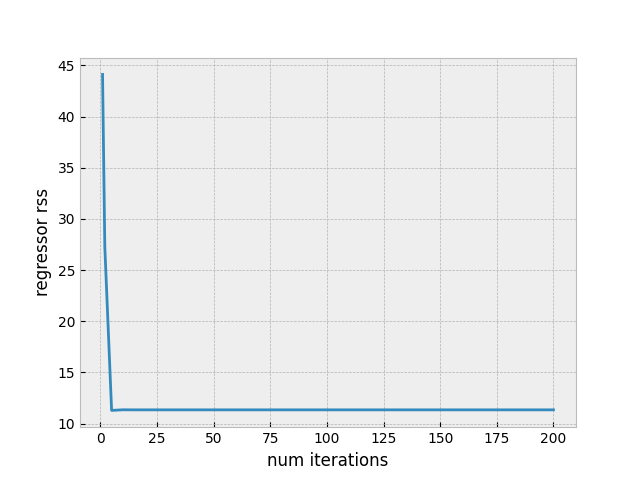
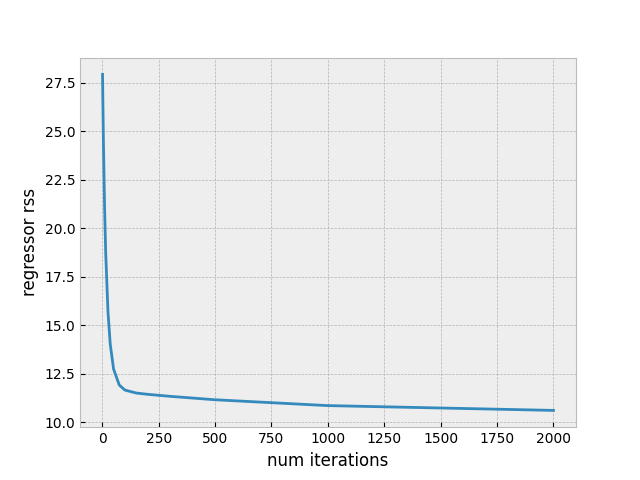
debugged backpropagation

diff --git a/neural_net_generalized.py b/neural_net_generalized.py
@@ -8,7 +8,8 @@ class Node():
         self.input_val = None
         self.output_val = None
         self.bias = False
-        self.dRSS = None
+        self.dRSS = 0
+        self.temp_dRSS = 0
         self.f = act_func
     
     def set_vals(self, input_val):
@@ -69,24 +70,21 @@ class NeuralNet():
         self.set_node_vals(x)
         return self.nodes[self.num_nodes-1].output_val
     
-    def set_node_dRSS(self, f_prime): # can't generalize f_prime
+    def set_node_dRSS(self, point, f_prime): # can't generalize f_prime
+        self.set_node_vals(point[0])
         for node in self.nodes[::-1]:
-            drss = 0
-            for point in self.points:
-                self.set_node_vals(point[0])
-                if node.num == self.num_nodes:
-                    drss += 2 * (node.output_val - point[1])
-                    continue
-                for out_node in node.info_to:
-                    edge_weight = self.get_weight(node, out_node)
-                    drss += out_node.dRSS * f_prime(out_node.input_val) * edge_weight
-            node.dRSS = drss
+            if node.num == self.num_nodes:
+                node.dRSS = 2 * (node.output_val - point[1])
+                continue
+            for out_node in node.info_to:
+                edge_weight = self.get_weight(node, out_node)
+                node.dRSS = out_node.dRSS * f_prime(out_node.input_val) * edge_weight
 
     def weight_gradients(self, f_prime):
         gradients = {key:0 for key in self.w}
         for key in self.w:
             for point in self.points:
-                self.set_node_vals(point[0])
+                self.set_node_dRSS(point, f_prime)
                 nodes = [self.get_node(char) for char in key]
                 gradients[key] += nodes[1].dRSS * f_prime(nodes[1].input_val) * nodes[0].output_val
         return gradients
@@ -94,14 +92,12 @@ class NeuralNet():
     def rss(self):
         rss = 0
         for point in self.points:
-            self.set_node_vals(point[0])
-            output = self.nodes[self.num_nodes-1].output_val
+            output = self.predict(point[0])
             rss += (output - point[1])**2
         return rss
     
     def gradient_desc(self, num_iterations, l_rate, f_prime):
         for _ in range(num_iterations):
-            self.set_node_dRSS(f_prime)
             gradients = self.weight_gradients(f_prime)
             self.w = {key:self.w[key] - l_rate*gradients[key] for key in self.w}
 '''
@@ -118,20 +114,22 @@ weights = {'13':1,'14':1,'23':1,'24':1,'36':1,'46':1,'56':1}
 act_func = lambda x: max(0,x)
 init_input = [(0,5), (2,3), (5,10)]
 bias_nums = [2, 5]
-f_prime = lambda x: x
+f_prime = lambda x: 0 if x<=0 else 1
 net = NeuralNet(6, {key:weights[key] for key in weights}, act_func, init_input, bias_nums) # the copy method cannot be trusted
 
 plt.style.use('bmh')
 plt.figure(0)
 plt.scatter([point[0] for point in init_input], [point[1] for point in init_input], label='data')
-x = [i for i in range(0,6)]
+x = [i for i in range(0,7)]
 plt.plot(x,[net.predict(i) for i in x], label='unfit regressor')
 
-num_iter = [1,2,5,10,15,25,35,50,75,100,150,200]
+num_iter = [1,2,5,10,15,25,35,50,75,100,150,200,300,500,1000,2000]
 rss = []
 for i in num_iter:
-    net = NeuralNet(6, dict(weights), act_func, init_input, bias_nums)
+    net = NeuralNet(6, {key:weights[key] for key in weights}, act_func, init_input, bias_nums)
     net.gradient_desc(i, 0.0001, f_prime)
+    if i == 1:
+        print(net.rss())
     rss.append(net.rss())
 
 plt.plot(x,[net.predict(i) for i in x], label='fit regressor')

diff --git a/neural_net.py b/neural_net.py
@@ -103,6 +103,7 @@ def dRSS_dw(w,w_key):
         return dRSS_dw24(w)
     print('something went wrong')
 
+
 def gradient_desc(w, num_iterations, l_rate):
     # currently updateing edge weights at same time
     for _ in range(num_iterations):
@@ -113,9 +114,13 @@ def gradient_desc(w, num_iterations, l_rate):
 
 num_iter = [1,2,5,10,15,25,35,50,75,100,150,200,300,500,1000,2000]
 rss = []
+test = True
 for i in num_iter:
     w = {'13':1, '14':1, '23':1, '24':1, '36':1, '46':1, '56':1}
     w = gradient_desc(w, i, 0.0001)
+    if i == 2 or i == 1:
+        print(get_rss(w))
+        test = False
     rss.append(get_rss(w))
 
 plt.style.use('bmh')
